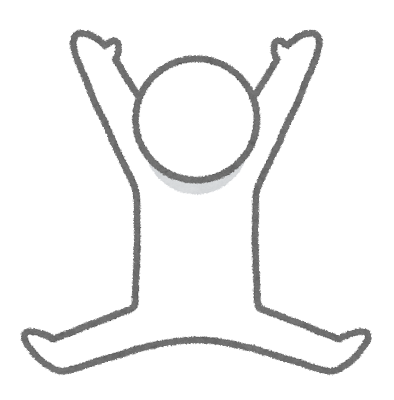
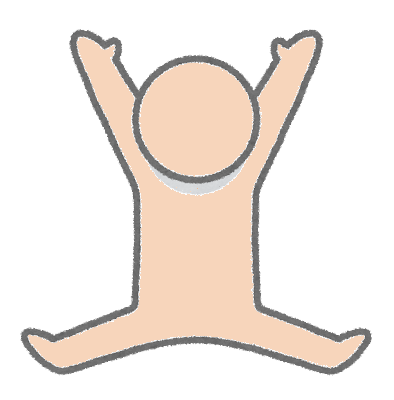
画像修正、当たり判定追加

Changed region(s): [[0.0609, 0.09, 0.9442, 0.93]]

diff --git a/game1/human.java b/game1/human.java
@@ -8,12 +8,75 @@ import greenfoot.*;  // (World, Actor, GreenfootImage, Greenfoot and MouseInfo)
  */
 public class human extends Actor
 {
+    private int score = 0;
     /**
      * Act - do whatever the human wants to do. This method is called whenever
      * the 'Act' or 'Run' button gets pressed in the environment.
      */
     public void act() 
     {
-        // Add your action code here.
+        int x = getX();
+        int y = getY();
+        int s = 4;
+
+        if( Greenfoot.isKeyDown( "left" ) ){
+            setLocation( x+s,y );
+        }
+        if( Greenfoot.isKeyDown( "right" ) ){
+            setLocation( x-s,y );
+        }
+        if( Greenfoot.isKeyDown( "up" ) ){
+            setLocation( x,y+s );
+        }
+        if( Greenfoot.isKeyDown( "down" ) ){
+            setLocation( x,y-s );
+        }
+
+        Actor actor1 = getOneIntersectingObject( alcohol.class );
+        if( actor1 != null ){
+            score = 500;
+            getWorld().removeObject( actor1 );
+        }      
+
+        Actor actor2 = getOneIntersectingObject( mask.class );
+        if( actor2 != null ){
+            score = 100;
+            getWorld().removeObject( actor2 );
+        }     
+
+        Actor actor3 = getOneIntersectingObject( skate.class );
+        if( actor3 != null ){
+            s = 6;
+
+            if( Greenfoot.isKeyDown( "left" ) ){
+                setLocation( x+s,y );
+            }
+            if( Greenfoot.isKeyDown( "right" ) ){
+                setLocation( x-s,y );
+            }
+            if( Greenfoot.isKeyDown( "up" ) ){
+                setLocation( x,y+s );
+            }
+            if( Greenfoot.isKeyDown( "down" ) ){
+                setLocation( x,y-s );
+            }
+            getWorld().removeObject( actor3 );
+        }
+        
+           Actor actor4 = getOneIntersectingObject( vaccine.class );
+        if( actor4 != null ){
+            //体力を回復
+        }  
+        
+         Actor actor5 = getOneIntersectingObject( virus_1.class );
+        if( actor5 != null ){
+            //主人公は一時停止　ウイルスは動く
+        } 
+         Actor actor6 = getOneIntersectingObject( virus_2.class );
+        if( actor6 != null ){
+            //主人公は一時停止　ウイルスは動く
+        }  
+
+        
     }    
 }
